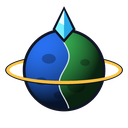
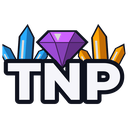
TNP emoji: the letters with the three resources coming out of them

diff --git a/docs/design/hub-and-lobby.md b/docs/design/hub-and-lobby.md
@@ -87,8 +87,10 @@ does bar naming specific opponents up front). Two pieces:
     at ERROR. TNP's block in the message is the author's own copy
     (2026-11-06), kept verbatim as D12 Ball's is. Its emoji, on the
     heading and the button, is `tnp/images/emoji/tnp.png` uploaded to
-    fool-bot's application as `tnp` (`TNP_HUB_EMOJI_NAME`) -- the two
-    seats' halves of one planet, ringed, with a mineral crystal on it;
+    fool-bot's application as `tnp` (`TNP_HUB_EMOJI_NAME`) -- the
+    letters TNP with the planet's three resources coming out of them, in
+    the map's colours (`tnp/render.py`): blue mineral shards out of the
+    T, a cut purple gem out of the N, orange mineral shards out of the P;
     the hub goes without it until it is uploaded, as with Codex's. A hub posted before the button gains it
     at the next `/d12ball setup_hub`, which edits the message.
   `data/d12ball_hubs.json` is untracked runtime state like the saved games, and
